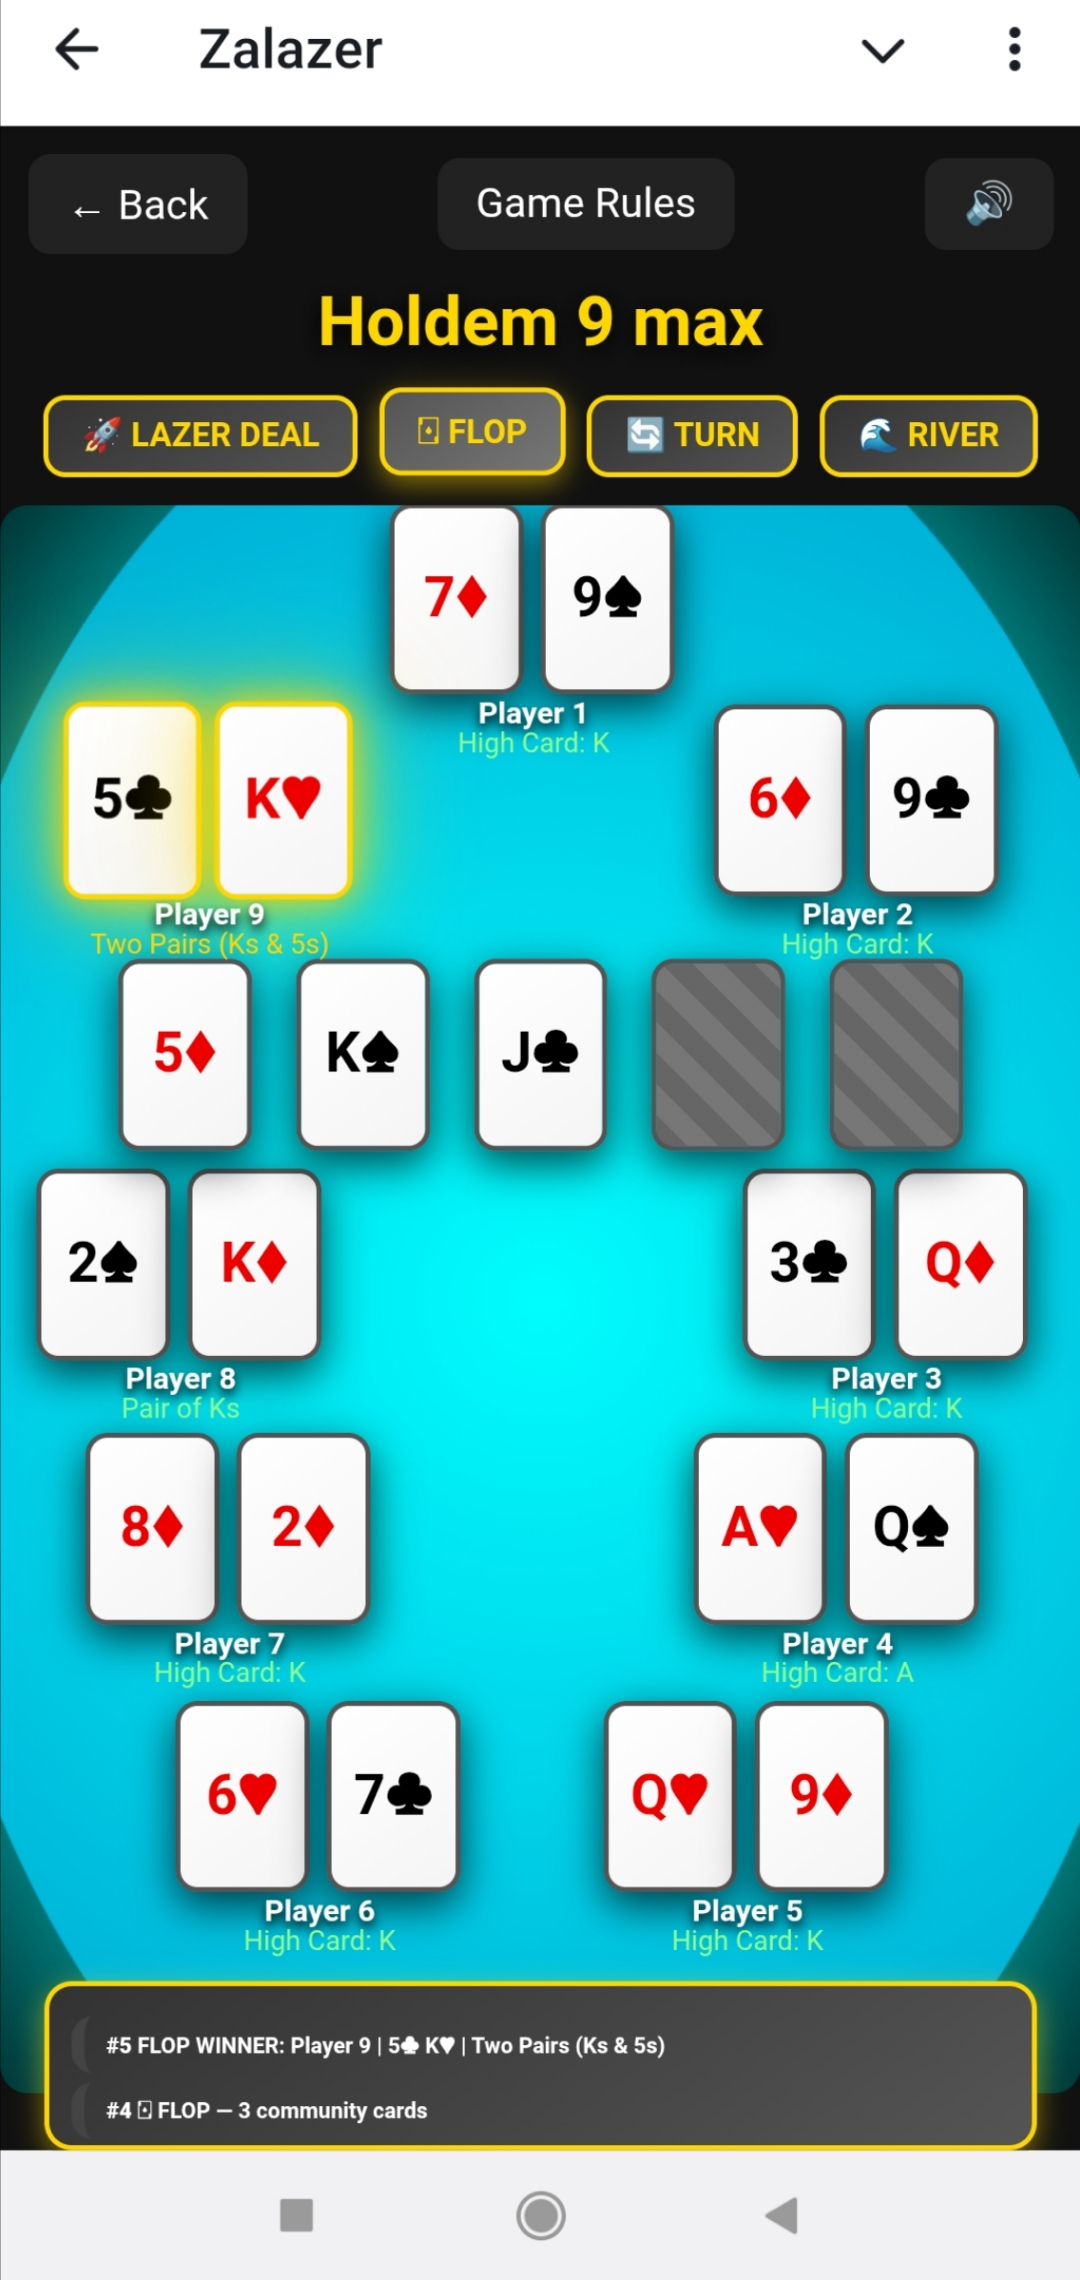
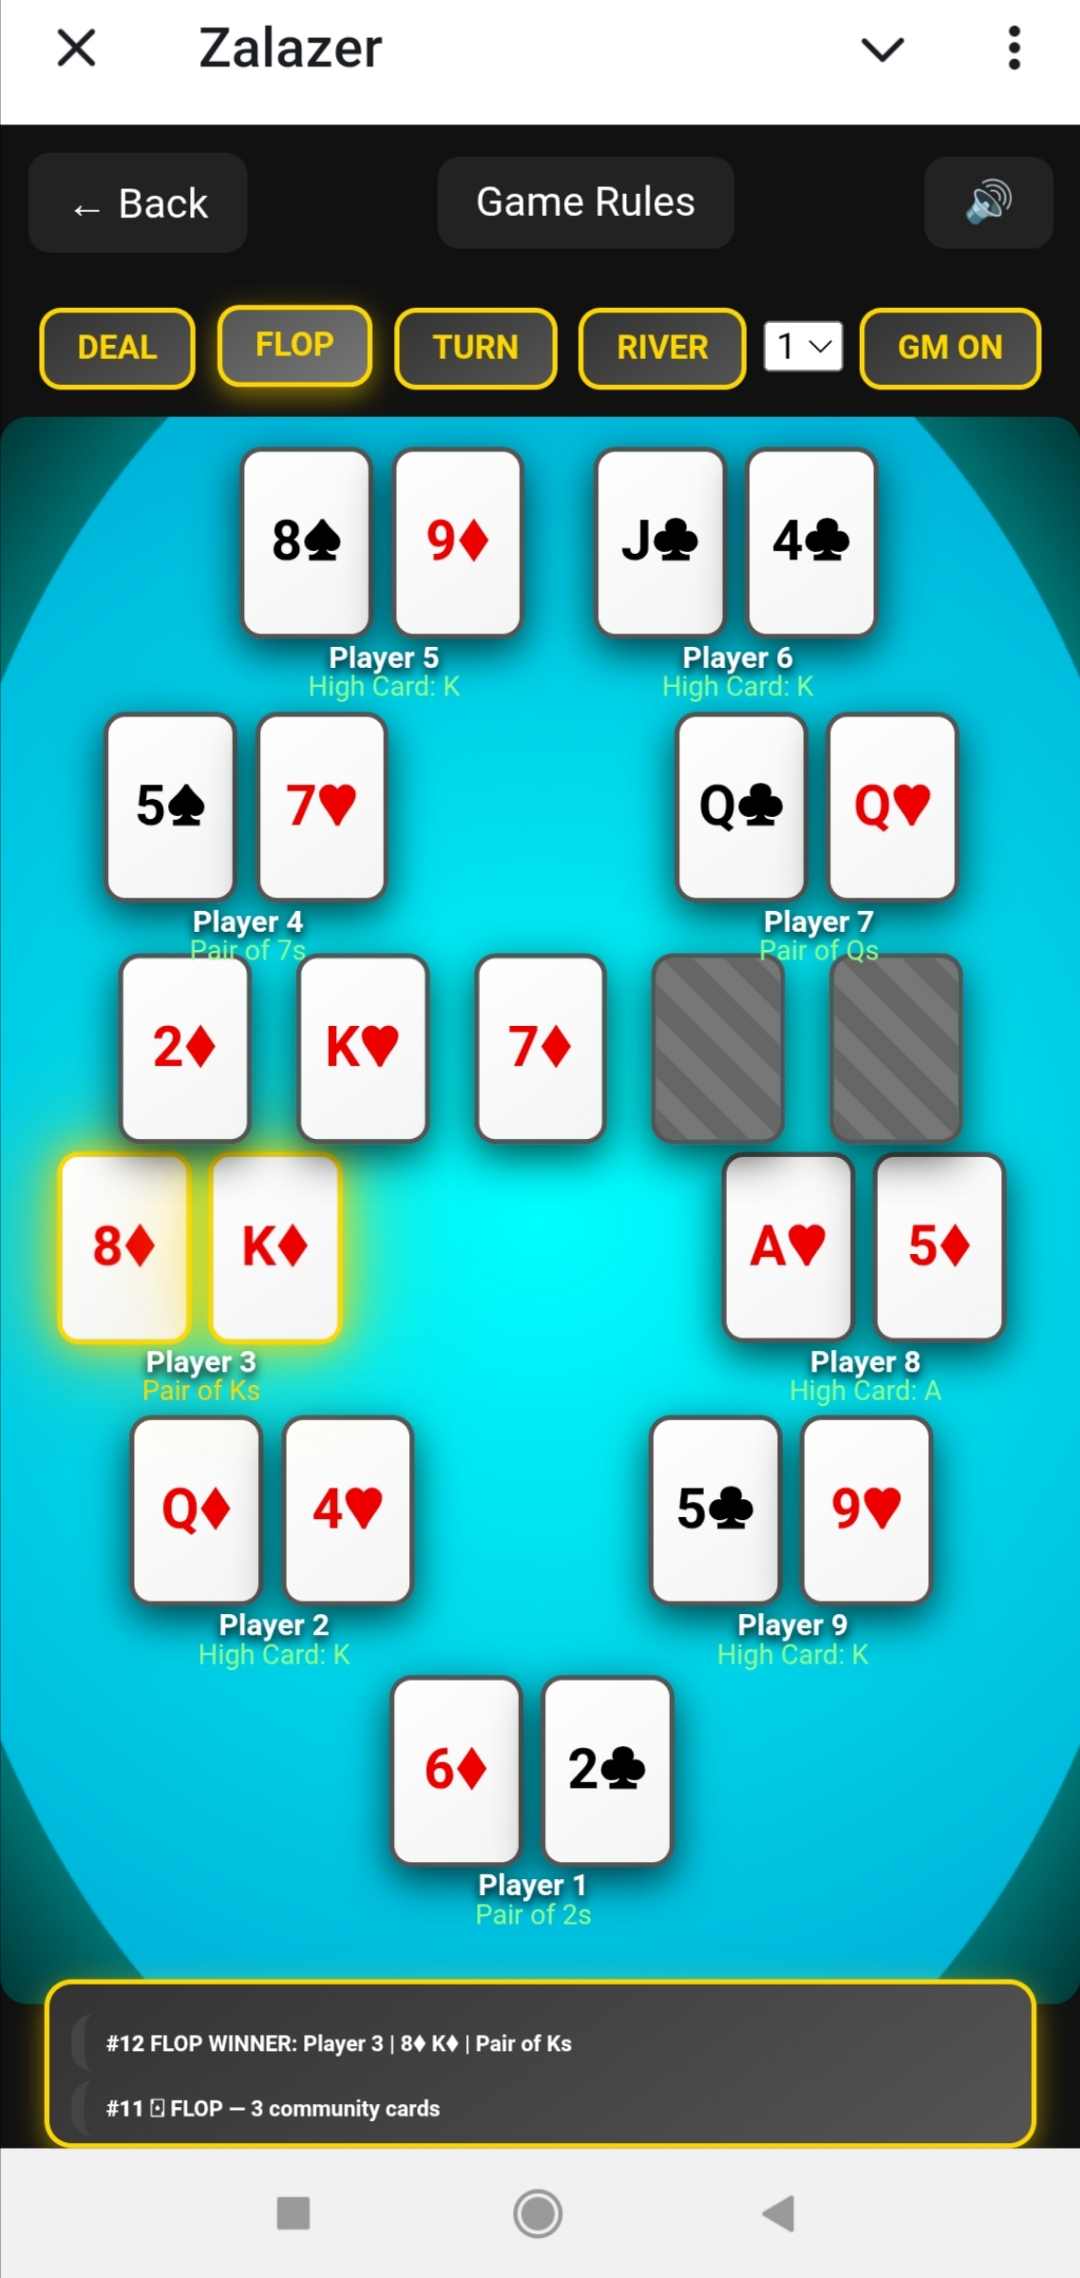
Add files via upload

diff --git a/Donate/index.html b/Donate/index.html
@@ -261,7 +261,7 @@ All donated equipment is used exclusively for development and will never be reso
 <h2>Contact & Collaboration</h2>
 
 <p>
-I prefer to share my personal contact information directly with organizations and programs that are interested in supporting my work.
+I prefer to share my personal contact information directly with organizations and programs interested in supporting my work.
 </p>
 
 <p>
@@ -274,6 +274,27 @@ You may also reach me through my Telegram bot for general inquiries and collabor
 
 <p>
 <b>@ZalazerBot</b>
+</p>
+
+<div class="note" style="text-align:center;">
+
+<p>
+Optional Bitcoin Support
+</p>
+
+<p style="
+font-size:12px;
+font-family:monospace;
+font-weight:bold;
+white-space:nowrap;
+margin:0;
+">
+
+<span style="
+color:#00b4b4;
+text-shadow:0 0 12px rgba(0,180,180,.8);
+">1Donate</span>U3axNgdo7GqJ77RRSKKELKCdgvb
+
 </p>
 
 </div>
